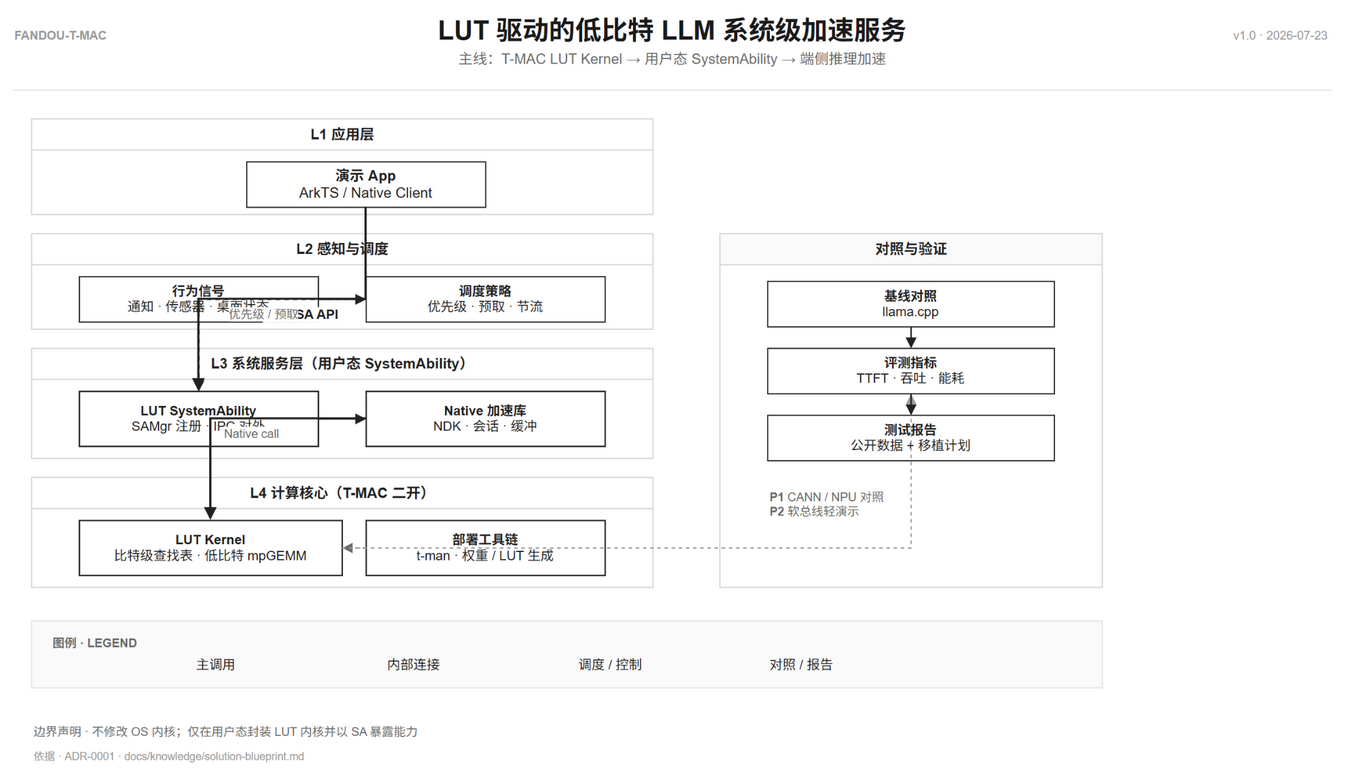
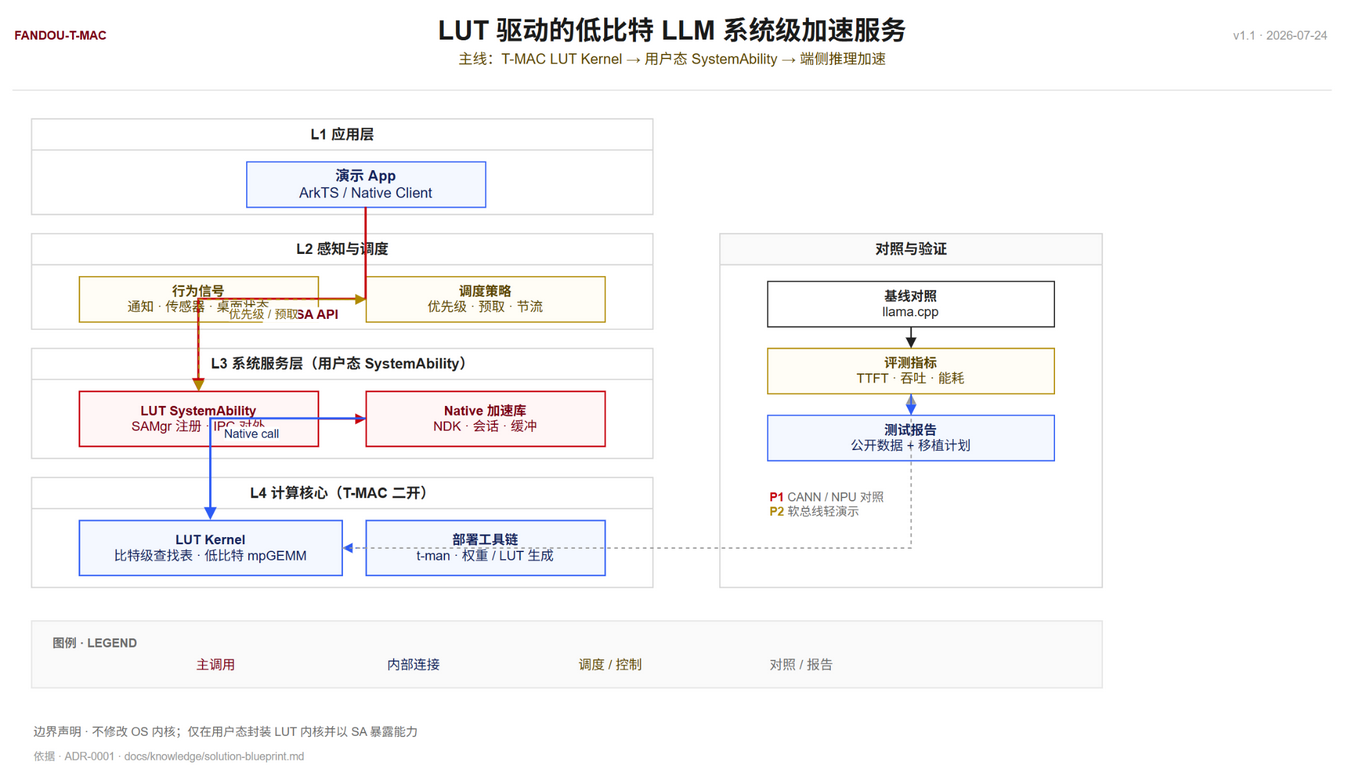
docs(phase1): 队伍信息校正 + 设计稿淡彩化 + 措辞与冗余段清理
- team.md 按茶思屋截图更正：中北大学 / 3 人 / 模型与算子赛道
- architecture / sequence 设计稿改为淡彩（鸿蒙红 / CANN 蓝 / 琥珀 / 灰），重导 PNG
- phase1-{one-liner,work-intro,test-report,design,checklist}.md 措辞统一
  评委口径，删除备选 / 粘贴前检查 / 验收意见 / 图3 赛题映射等
  内务段
- 新增 assets/poster/ 占位（海报初赛可选用）

diff --git a/docs/output/report/phase1-work-intro.md b/docs/output/report/phase1-work-intro.md
@@ -1,55 +1,15 @@
-# Phase 1 · 作品介绍（≤800 字 · 定稿候选）
-
-Status: draft · 正文约 **623** 字（含标点；粘贴茶思屋前请用平台字数复核）  
-团队：翻斗花园 · 方向四 · 操作系统智能创新  
-配色：架构图与时序图已统一为单色灰阶，便于打印与评审。
-
----
-
-## 一、架构与时序图
+# Phase 1 · 作品介绍
 
 ![系统架构](../../assets/images/readme/architecture-phase1.png)
 
 ![调用时序](../../assets/images/readme/sequence-phase1.png)
 
-源文件在 `assets/images/readme/`，draw.io 可继续编辑后重新导出。
+低比特大模型在边缘设备落地时，主流路径仍以反量化后高精度乘加实现，反量化访存与转换开销显著抵消低比特收益；多任务并发场景下，首字延迟（TTFT）与能耗指标进一步劣化。赛题要求在现有操作系统架构下提升系统 AI 任务运行效率，纯应用层 Demo 难以承载「系统级创新」这一命题。
 
----
+作品 LUT-SA 以开源 T-MAC（EuroSys 2025）比特级查找表范式为计算引擎，将低比特混合精度矩阵乘转换为查表与加法运算，消除反量化乘加路径。计算内核经 NDK 封装后，以用户态 SystemAbility 注册到 OpenHarmony / HarmonyOS 系统服务框架，对外统一暴露模型加载、推理与指标回传三类能力。调度侧联动系统通知、前台状态与负载信号，动态调整 AI 任务优先级与预取策略，形成「感知 → 调度 → 加速」闭环。系统路径全程运行于用户态，不依赖未公开的内核接口。
 
-## 二、作品正文（≤800 字）
+工程实现分三层：计算层适配 T-MAC LUT Kernel 至 ARM 架构，处理访存模式与 LUT 表布局；服务层按 SAMgr 注册 LUT SystemAbility，对外暴露统一加速接口，应用按需获取 proxy；策略层将行为信号映射为优先级、预取与节流策略，可在演示场景中直观呈现。
 
-边缘设备跑低比特大模型，常规做法是先反量化再做高精度乘加。访存和转换的开销常常吃掉低比特带来的收益，首字延迟（TTFT）和能耗都偏高；后台任务一多，系统体验更是塌方。赛题要求在现有 OS 架构里把系统 AI 任务的效率做上去，纯应用层 Demo 撑不起「系统级创新」这块招牌。
+公开评测数据表明，相对 llama.cpp 反量化基线，T-MAC 在多种边缘 CPU 上吞吐具备稳定优势。BitNet-3B 在 M2-Ultra 单核 22.08 对 6.49 tokens/s，树莓派 5 单核 8.03 对 1.37 tokens/s，数据出处为本仓 `docs/profiling_data.md`。本作品以此为性能基线，并规划在 OpenHarmony 模拟器或 ARM 设备上完成复现与实测补充。复赛阶段可进一步叠加官方 NPU / CANN 量化路径作对照，强化「异构调度」的论证链。
 
-我们的作品叫「LUT-SA」。引擎用的是开源 T-MAC（EuroSys 2025）的比特级查找表范式：把低比特混合精度矩阵乘换成查表 + 加法，反量化乘加直接消失。算法内核经 NDK 封装后，以 OpenHarmony / HarmonyOS 的 SystemAbility 注册为系统级加速服务，对外提供模型加载、推理、指标回传三个能力。调度侧感知通知、前台状态与负载，动态调优先级与预取，构成「感知 → 调度 → 加速」闭环，整条链路都在用户态跑，不动内核。
-
-技术路径三层：
-
-- **计算层**：适配 T-MAC LUT Kernel，重点处理 ARM 端的访存与 LUT 表布局。
-- **服务层**：按 SAMgr 注册 LUT SA，对外暴露统一加速接口，应用按需取 proxy。
-- **策略层**：感知信号 → 优先级 / 预取 / 节流策略，可演示。
-
-公开评测里，T-MAC 相对 llama.cpp 在多种边缘 CPU 上吞吐更优（本仓 `docs/profiling_data.md`：BitNet-3B 在 M2-Ultra 单核约 22.08 对 6.49 tokens/s；树莓派 5 单核约 8.03 对 1.37 tokens/s）。我们以此为基线，计划在鸿蒙 / 模拟器或 ARM 设备复现后补实测数据。复赛可以再叠官方 NPU / CANN 量化路径做对照，强化「异构调度」的故事。
-
-作品的价值是把一个计算范式产品化成系统服务：端侧部署门槛降下来，隐私本地推理与低功耗生成就有了底座。
-
----
-
-## 三、粘贴前检查
-
-| 项 | |
-|----|--|
-| 方向 | 操作系统智能创新 |
-| 结构 | 痛点 → 方案 → 路径 → 指标 → 价值 |
-| 数据 | 标明公开评测 / 本仓 profiling，非本队板测冒充 |
-| 字数 | 约 623 ≤ 800 |
-
----
-
-## 四、附 · 出图说明
-
-| 维度 | 选择 | 备注 |
-|------|------|------|
-| 配色 | 单色灰阶 | `#1A1A1A` 主字 / `#222222` 边线 / `#FAFAFA` 图例底 |
-| 字体 | 系统默认无衬线 | 标题 20–22 px，正文 11–12 px |
-| 导出 | draw.io File → Export as → PNG，2× 分辨率 | 与源文件 `.drawio` 同名落盘 |
-| 编辑 | draw.io Desktop / https://app.diagrams.net | 编辑后保持配色与边线规范 |
+作品意义在于将 LUT 计算范式产品化为系统级服务，降低端侧大模型部署门槛，为隐私本地推理、低功耗生成等场景提供基础支撑。

diff --git a/docs/output/report/phase1-test-report.md b/docs/output/report/phase1-test-report.md
@@ -1,12 +1,8 @@
-# Phase 1 · 测试报告雏形
-
-Status: draft · 方向四初赛附加材料  
-团队：翻斗花园  
-说明：初赛阶段以**公开可复核数据 + 移植计划**为主；复赛补充本平台实测。
+# Phase 1 · 测试报告
 
 ## 1. 测试目的
 
-验证「比特级查找表（LUT）相对反量化基线」在边缘 CPU 上的吞吐优势，并说明将该能力封装为鸿蒙/OpenHarmony 系统服务后的复现与移植路径，支撑作品「系统级 AI 任务效率提升」主张。
+验证比特级查找表（LUT）相对反量化基线在边缘 CPU 上的吞吐优势，并说明将该能力封装为 OpenHarmony / HarmonyOS 用户态系统服务后的复现与移植路径，支撑作品「系统级 AI 任务效率提升」主张。
 
 ## 2. 测试对象与基线
 
@@ -15,20 +11,20 @@ Status: draft · 方向四初赛附加材料
 | 加速方案 | T-MAC LUT Kernel（本仓二开底座，上游 microsoft/T-MAC） |
 | 对比基线 | llama.cpp CPU 路径（反量化类低比特实现） |
 | 模型示例 | BitNet-3B；Llama-2-7B（W2 / W4） |
-| 初赛数据来源 | 本仓 `docs/profiling_data.md`（公开 profiling，非本队现场实测） |
+| 数据来源 | 本仓 `docs/profiling_data.md`（公开 profiling，非本队现场实测） |
 
 ## 3. 指标定义
 
 | 指标 | 含义 |
 |------|------|
-| tokens/s | 生成吞吐 |
+| tokens / s | 生成吞吐 |
 | NUM_THREADS | 参与计算的 CPU 线程数 |
 | TTFT | 首字延迟（复赛补测） |
-| 能耗/功耗 | 复赛在可测平台补采 |
+| 能耗 / 功耗 | 复赛在可测平台补采 |
 
-## 4. 公开对比结果（摘录）
+## 4. 公开对比结果
 
-数据出处：`docs/profiling_data.md`。单位：tokens/sec。
+数据出处：`docs/profiling_data.md`。单位：tokens / sec。
 
 | 模型 | 设备 | 线程 | llama.cpp | T-MAC | 约倍速 |
 |------|------|------|-----------|-------|--------|
@@ -39,35 +35,29 @@ Status: draft · 方向四初赛附加材料
 | Llama-2-7B (W2) | M2-Ultra | 1 | 3.82 | 16.68 | ~4.4× |
 | Llama-2-7B (W2) | AGX Orin | 1 | 0.79 | 4.36 | ~5.5× |
 
-**结论（初赛口径）：** 在多种边缘 CPU 上，LUT 路径相对 llama.cpp 基线具有稳定吞吐优势；低线程场景收益尤为明显，有利于预留系统资源给其他任务，契合系统级调度叙事。
-
 ## 5. 复现步骤（公开数据侧）
 
-1. 克隆本仓 / 上游 T-MAC，按 README 与 `docs/e2e.md` 准备依赖。  
-2. 按文档转换或获取对应低比特模型。  
-3. 运行官方/本仓 benchmark，记录 tokens/s 与线程配置。  
-4. 同配置运行 llama.cpp 基线并制表。  
+1. 克隆本仓或上游 T-MAC，按 README 与 `docs/e2e.md` 准备依赖。
+2. 按文档转换或获取对应低比特模型。
+3. 运行官方或本仓 benchmark，记录 tokens / s 与线程配置。
+4. 同配置运行 llama.cpp 基线并制表。
 
-（命令以复赛环境固化后写入附录。）
+命令以复赛环境固化后写入附录。
 
 ## 6. 移植到 OpenHarmony / HarmonyOS 的计划
 
 | 步骤 | 内容 | 阶段 |
 |------|------|------|
-| 1 | 抽取 LUT kernel 为 Native 静态/动态库（参考 Android 交叉编译经验） | 复赛前期 |
+| 1 | 抽取 LUT Kernel 为 Native 静态 / 动态库，参考 Android 交叉编译经验 | 复赛前期 |
 | 2 | DevEco 创建 Native 模块，打通最小推理调用 | 复赛前期 |
 | 3 | 封装 SystemAbility，暴露 Load / Infer / Metrics | 复赛中期 |
 | 4 | 叠加轻量感知调度；与 llama.cpp 或官方量化路径对照 | 复赛中后期 |
-| 5 | 固化本平台 TTFT、tokens/s、（可选）功耗数据 | 复赛提交前 |
+| 5 | 固化本平台 TTFT、tokens / s、（可选）功耗数据 | 复赛提交前 |
 
 ## 7. 风险与边界
 
 | 风险 | 说明 |
 |------|------|
-| 初赛数据非本队设备实测 | 已明确标注来源；不把公开数据写成「本队板测」 |
+| 初赛数据非本队设备实测 | 已明确标注来源，不将公开数据表述为「本队板测」 |
 | ISA / 内存布局差异 | ARM 鸿蒙设备需适配；优先用户态库，避免未公开内核 API |
-| 权限 | SystemAbility 能力级以可申请/可演示为准 |
-
-## 8. 初赛验收意见
-
-本报告满足方向四「提供测试报告」的初赛形态：有基线、有指标、有公开对比表、有移植与复测计划。复赛将替换/增补为本团队环境实测完整版。
+| 权限边界 | SystemAbility 能力级别以可申请 / 可演示为准 |

diff --git a/docs/output/report/phase1-design.md b/docs/output/report/phase1-design.md
@@ -1,55 +1,16 @@
-# Phase 1 · 设计稿说明
+# Phase 1 · 设计稿
 
-Status: 设计稿定稿（draw.io XML + PNG）
 源文件：`assets/images/readme/architecture-phase1.drawio`、`sequence-phase1.drawio`
-本地 PNG：`assets/images/readme/architecture-phase1.png`、`sequence-phase1.png`
+PNG：`assets/images/readme/architecture-phase1.png`、`sequence-phase1.png`
 
-> 历史版本见 `phase1-design-draft.md`（旧 Mermaid 渲染稿，已被本稿替代）。
-> 配色：统一灰阶（白底 / 黑字 / 黑边），便于黑白打印。
-
-## 渲染产物
-
-### 图 1 · 系统架构
+## 图 1 · 系统架构
 
 ![系统架构](../assets/images/readme/architecture-phase1.png)
 
-要点：
+自顶向下四层：L1 应用层 → L2 感知与调度 → L3 系统服务层（用户态 SystemAbility）→ L4 计算核心（T-MAC 二开），垂直单向依赖。右侧并列「对照与验证」，与 llama.cpp 反量化基线对照。边线语义：实线为主调用；细实线为内部连接；虚线为调度 / 控制 / 对照。底部边界声明：不修改 OS 内核，仅在用户态封装 LUT 内核并以 SA 暴露能力。
 
-- L1 应用 → L2 感知与调度 → L3 SystemAbility → L4 计算核心，垂直单向依赖。
-- 右侧「对照与验证」并列，强调与 llama.cpp 的可复现对照。
-- 边线：实线 = 主调用；细实线 = 内部连接；虚线 = 调度/控制/对照。
-- 底部「边界声明」：不修改 OS 内核，仅在用户态封装 LUT 内核并以 SA 暴露能力。
-
-### 图 2 · 交互 / 时序
+## 图 2 · 交互 / 时序
 
 ![调用时序](../assets/images/readme/sequence-phase1.png)
 
-要点：
-
-- 五条 lifeline：Demo App → SAMgr → LUT SA → Native Lib → LUT Kernel。
-- 主调用编号 1–5，覆盖一次完整 Generate。
-- 右侧 TTFT 双向开口标尺，覆盖 CreateSession 完成 → 首 token 返回。
-- 边线：实线 = 调用；虚线 = 返回/异步；双向开口 = 指标区间。
-
-## 出图与提交
-
-| 步 | 动作 |
-|----|------|
-| 1 | 用 draw.io Desktop 或 https://app.diagrams.net 打开 `.drawio` 源文件 |
-| 2 | File → Export as → PNG，2× 分辨率 |
-| 3 | 落盘到 `assets/images/readme/`，与 `.drawio` 同名 |
-| 4 | 上传茶思屋「设计稿」 |
-
-## 图 3 · 赛题映射（表格，作为图说的补充）
-
-| 赛题关键词 | 本设计落点 |
-|------------|------------|
-| 系统 AI 任务效率 | LUT 计算范式 + 指标回传 |
-| 软硬件异构调度 | CPU LUT 主路径；NPU 对照（复赛） |
-| 感知与资源调度 | 通知 / 桌面 / 负载 → Policy |
-| 可落地 | 用户态 SA + NDK，不改内核 |
-
-## 源文件与可编辑性
-
-- draw.io 源文件已落到仓库，可在本地直接打开编辑后重新导出 PNG。
-- 编辑后请保持配色与边线宽度规范，避免再次出现「花花绿绿」版本。
+五条 lifeline：Demo App → SAMgr → LUT SA → Native Lib → LUT Kernel。主调用链按 1–5 编号，覆盖一次完整 Generate：CreateSession → InitBuffers / LoadLUT → Generate → InferTokenBatch → mpGEMM / LUT lookup。右侧 TTFT 双向开口标尺，覆盖 CreateSession 完成 → 首 token 返回。

diff --git a/docs/output/report/phase1-checklist.md b/docs/output/report/phase1-checklist.md
@@ -1,51 +1,9 @@
-# Phase 1 清单 · 翻斗花园
+# Phase 1 清单
 
-截止：2026-07-26 24:00 · Issue：https://github.com/Aafff623/fandou-t-mac/issues/1
-
-## 必交付（茶思屋 5 项）
-
-| # | 材料 | 文件 | 状态 |
-|---|------|------|------|
-| 0 | 报名组队（已在官网） | `docs/knowledge/team.md` | ✅ Done（截图确认 2026-07-23） |
-| 1 | 一句话创意 | `phase1-one-liner.md` | ✅ Draft · 待小队确认字眼 |
-| 2 | 设计稿（架构 + 时序） | `assets/images/readme/architecture-phase1.{drawio,png,md}`<br>`assets/images/readme/sequence-phase1.{drawio,png,md}`<br>`phase1-design.md` | ✅ Done · PNG 已导出 |
-| 3 | 作品介绍 ≤800 字 | `phase1-work-intro.md`（约 623 字，顶部已挂图） | ✅ Draft · 待小队最后审 |
-| 4 | 测试报告雏形（方向四附加） | `phase1-test-report.md` | ✅ Draft · 公开数据 + 移植计划 |
-
-## 提交平台映射（茶思屋字段 → 本仓文件）
-
-| 茶思屋字段 | 用本仓什么 |
-|------------|------------|
-| 创意描述 | `phase1-one-liner.md` 里的「主推荐（短）」 |
-| 设计稿 | `architecture-phase1.png` + `sequence-phase1.png` |
-| 作品介绍 | `phase1-work-intro.md` 正文（约 623 字） |
-| 测试报告 | `phase1-test-report.md`（初赛可只交公开数据 + 移植计划两节） |
-| 模型名称 | `team.md` 里的「LUT-SA」 |
-
-## 仓库配套文档（不直接交，但用于支撑与复盘）
-
-| 类别 | 文件 | 用途 |
-|------|------|------|
-| 赛题与决策 | `docs/knowledge/competition-brief.md` | 赛题、赛程、评分、提交口径 |
-| | `docs/knowledge/solution-blueprint.md` | 技术栈与分阶段 |
-| | `docs/knowledge/reference-repos.md` | 主仓 + 借鉴仓清单 |
-| | `docs/knowledge/asset-map.md` | 路径职责 |
-| | `docs/knowledge/team.md` | 队伍信息 |
-| 决策记录 | `docs/adr/0001-lut-systemability-path.md` | 主路径决策（Accepted） |
-| 调研 | `docs/output/report/strategy-summary.md` | 调研摘要 + 备选 |
-| | `docs/output/report/prelim-submission-outline.md` | 初赛写作骨架 |
-| 历史 | `phase1-design-draft.md` | 旧 Mermaid 稿（已被新版替代，保留作对照） |
-| 上游 | `assets/*.png`、`assets/demo.gif` | T-MAC 上游 README 配图，保留不挪 |
-
-## 提交前动作
-
-1. 三人快速过文案，把 Draft 三份（创意句 / 作品介绍 / 测试报告）改到能上茶思屋的版本
-2. 茶思屋占坑提交（一版就够，截止前最多更新 10 次）
-3. 同步状态到 GitHub Issue #1
-
-## 不在初赛交付里（复赛再说）
-
-- `ohos/`（鸿蒙封装代码）、DevEco Native 模块、SystemAbility 注册
-- 演示视频 ≤5 min、PPT、答辩逐字稿 → `assets/video/` 与 `assets/theme/ppt/`
-- 实测 TTFT / 能耗
-- GitHub PR / 分支
+| # | 材料 | 文件 |
+|---|------|------|
+| 1 | 一句话创意 | `phase1-one-liner.md` |
+| 2 | 设计稿（架构 + 时序） | `architecture-phase1.{drawio,png,md}`<br>`sequence-phase1.{drawio,png,md}` |
+| 3 | 作品介绍 ≤800 字 | `phase1-work-intro.md` |
+| 4 | 测试报告雏形 | `phase1-test-report.md` |
+| 5 | 报名组队（已在官网） | `docs/knowledge/team.md` |

diff --git a/docs/knowledge/team.md b/docs/knowledge/team.md
@@ -1,28 +1,28 @@
 # 参赛队伍信息
 
-Status: 已报名（截图确认 2026-07-23）  
-赛事：鸿蒙高校创新赛 / C4-AI · 方向四「操作系统智能创新」
+Status: 已报名（茶思屋截图确认 2026-07-24）
+赛事：鸿蒙高校创新赛 / C4-AI · 模型与算子赛道
+
+## 队伍
 
 | 项 | 内容 |
 |----|------|
 | 团队名称 | 翻斗花园 |
-| 选题方向 | 操作系统智能创新 |
-| 学校 | 东北大学 · 软件学院 |
-| 专业 / 学历 | 软件工程 · 本科 · 2024 级 |
-| 指导老师 | 段毅（东北大学软件学院） |
+| 所属机构 | 中北大学 |
+| 参赛赛道 | 模型与算子赛道 |
+| 报名时间 | 2026-07-17 |
+| 指导专家 | 暂未添加 |
 
 ## 队员
 
 | 角色 | 姓名 |
 |------|------|
-| 队长 | 魏鸣强 |
-| 队员 | 郎泽南 |
-| 队员 | 范昌云 |
+| 队长 | 聂君奋 |
+| 队员 | 范腾达 |
+| 队员 | 郑李惠杰 |
 
-> 联系方式仅保留在报名平台，不入库公开仓库。
+## 作品技术名
 
-## 作品技术名（建议，茶思屋「模型名称」可填）
-
-**LUT-SA**：基于比特级查找表的鸿蒙系统级低比特 LLM 加速服务
+**LUT-SA**：基于比特级查找表的端侧低比特 LLM 加速方案。
 
 一句话见 `docs/output/report/phase1-one-liner.md`。

diff --git a/docs/output/report/phase1-one-liner.md b/docs/output/report/phase1-one-liner.md
@@ -1,21 +1,3 @@
-# Phase 1 · 一句话创意（定稿候选）
+# Phase 1 · 一句话创意
 
-Status: draft · 供茶思屋「创意描述」粘贴；小队可微调用词。
-
-## 主推荐（短）
-
-基于比特级查找表的系统级低比特 LLM 加速服务，结合用户行为感知实现动态资源调度。
-
-## 备选（稍完整）
-
-将 T-MAC 比特级查找表计算范式封装为鸿蒙/OpenHarmony 系统能力，结合轻量行为感知调度，降低端侧大模型首字延迟与能耗。
-
-## 填写建议
-
-| 字段 | 建议 |
-|------|------|
-| 选题方向 | 操作系统智能创新（已报名） |
-| 模型名称 | LUT-SA（或「翻斗花园 · 系统级 LUT 加速服务」） |
-| 模型简介 | 可先空，或贴下面半句：面向端侧低比特 LLM 的 LUT 加速 + SystemAbility 服务化 |
-
-对齐灵感源：B1（T-MAC 解析）、B5（OH 服务化案例）。
+将比特级查找表（LUT）驱动的低比特 LLM 推理范式封装为 OpenHarmony / HarmonyOS 用户态系统能力，并以轻量行为感知实现动态资源调度。

diff --git a/docs/knowledge/asset-map.md b/docs/knowledge/asset-map.md
@@ -29,6 +29,7 @@ flowchart TB
 | `assets/images/readme/` | 竞赛/本仓 README 新图 | 新图放这里 |
 | `assets/images/avatar/` `icon/` | 品牌头像/图标 | 新资产 |
 | `assets/video/` | 演示视频 | 新资产 |
+| `assets/poster/` | 海报（初赛可选用，复赛现场常用） | 新资产，prompt 见对话输出 |
 | `assets/theme/ppt/` `script/` | 答辩 PPT、逐字稿（资产目录名，非业务 theme） | 新资产 |
 | `assets/backup/` | zip/旧稿只读备份 | 迁入前登记 |
 | `docs/android.md` 等 | 上游技术文档 | **否** |
